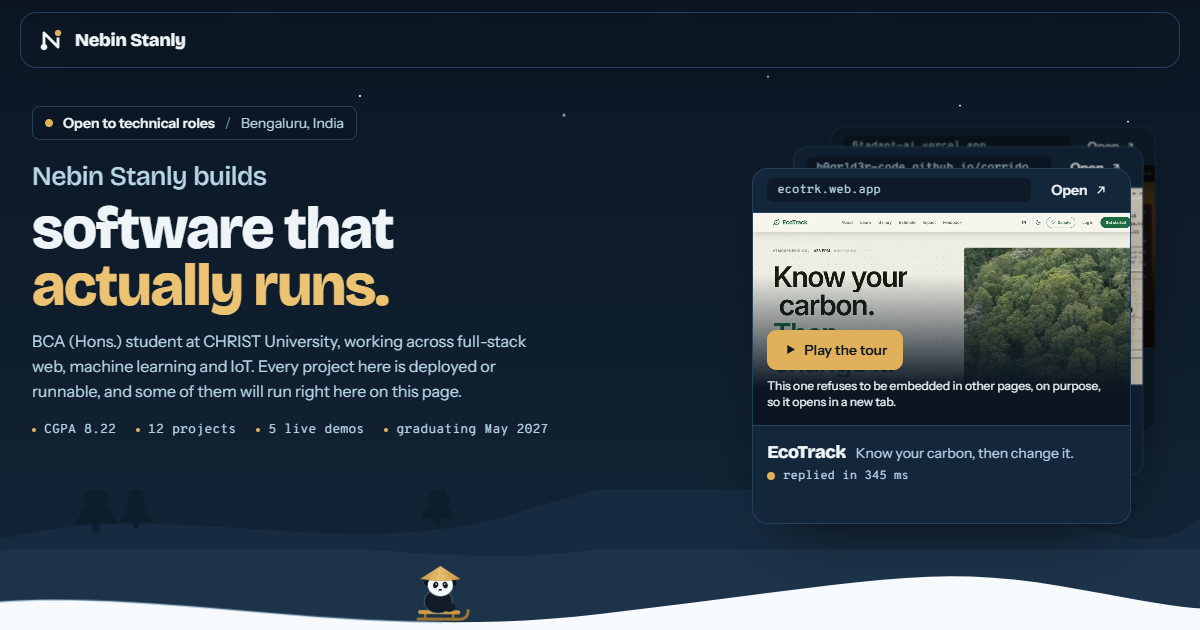
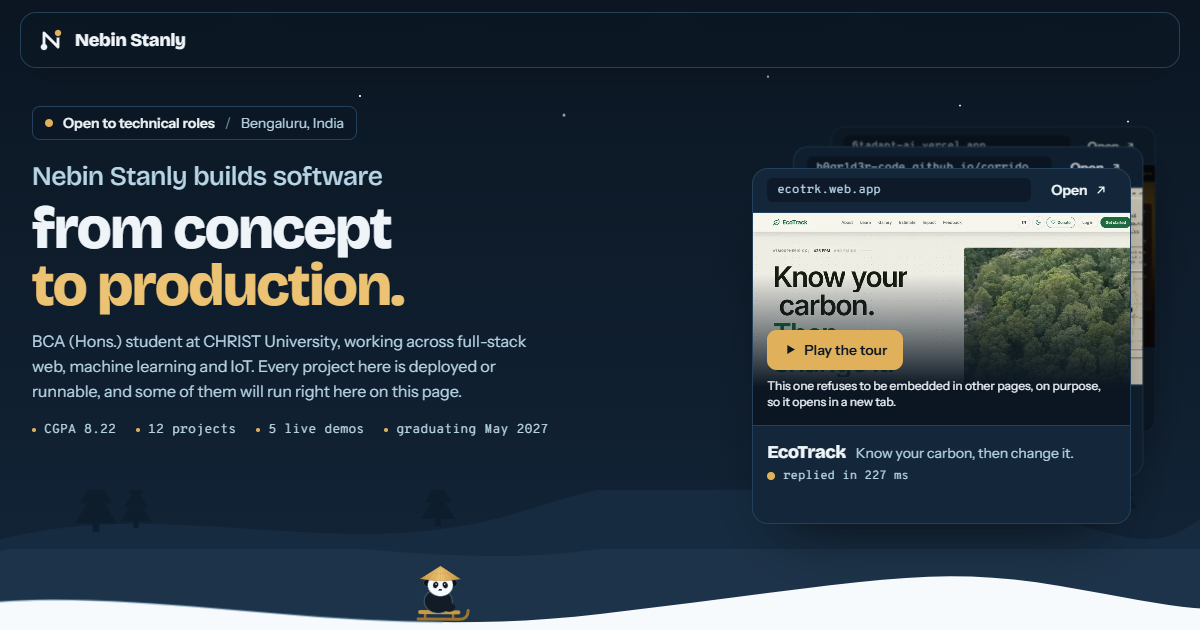
Formal headline, footer panda that reacts, shorter footer line
- Headline is now "Nebin Stanly builds software from concept to
  production.", the phrasing of the résumé summary. The loading screen
  line is plainer to match.
- The footer panda is a button rather than scenery: its eyes follow the
  pointer, it comes up and tips its hat on hover or focus, and pressing
  it sends it under the snow to come up elsewhere along the drift.
- The footer no longer lists the tools the site is built with.

Changed region(s): [[0.0308, 0.3317, 0.3392, 0.5127], [0.2158, 0.2714, 0.3392, 0.3016]]

diff --git a/src/components/Panda.tsx b/src/components/Panda.tsx
@@ -2,7 +2,8 @@
 // same shapes. It works at a laptop in About, sleds the hills and the
 // timeline, and peeks over the footer drift.
 
-import { useEffect, useRef, type CSSProperties } from "react";
+import { useEffect, useRef, useState, type CSSProperties, type RefObject } from "react";
+import { cn } from "@/lib/cn";
 import { usePrefersReducedMotion } from "@/lib/usePrefersReducedMotion";
 
 export function HatGradient({ id }: { id: string }) {
@@ -41,18 +42,20 @@ export function PandaHead({ hatId, blink = false, look = false, snowOnHat = fals
         </g>
       </g>
       <ellipse cx="980" cy="327" rx="7" ry="4.5" fill="#131C26" />
-      <path d="M880 272 Q980 292 1080 272 L980 208 Z" fill={`url(#${hatId})`} />
-      <g fill="none" stroke="#9C7430" strokeWidth="1.4" opacity="0.55">
-        <path d="M980 208 L912 276M980 208 L946 281M980 208 L980 282M980 208 L1014 281M980 208 L1048 276" />
-        <path d="M930 240 Q980 252 1030 240" />
+      <g className="panda-hat">
+        <path d="M880 272 Q980 292 1080 272 L980 208 Z" fill={`url(#${hatId})`} />
+        <g fill="none" stroke="#9C7430" strokeWidth="1.4" opacity="0.55">
+          <path d="M980 208 L912 276M980 208 L946 281M980 208 L980 282M980 208 L1014 281M980 208 L1048 276" />
+          <path d="M930 240 Q980 252 1030 240" />
+        </g>
+        <path d="M880 272 Q980 292 1080 272" fill="none" stroke="#9C7430" strokeWidth="2.2" opacity="0.7" />
+        {snowOnHat && (
+          <path
+            d="M980 205 C 962 215, 950 224, 944 233 C 958 229, 966 236, 980 231 C 994 236, 1002 229, 1016 233 C 1010 224, 998 215, 980 205 Z"
+            fill="#EEF4F8"
+          />
+        )}
       </g>
-      <path d="M880 272 Q980 292 1080 272" fill="none" stroke="#9C7430" strokeWidth="2.2" opacity="0.7" />
-      {snowOnHat && (
-        <path
-          d="M980 205 C 962 215, 950 224, 944 233 C 958 229, 966 236, 980 231 C 994 236, 1002 229, 1016 233 C 1010 224, 998 215, 980 205 Z"
-          fill="#EEF4F8"
-        />
-      )}
     </>
   );
 }
@@ -84,6 +87,35 @@ export function Pine({ x, y, scale = 1 }: { x: number; y: number; scale?: number
       d="M0 0 L-10 17 H-5 L-15 34 H-8 L-19 52 H-3 V60 H3 V52 H19 L8 34 H15 L5 17 H10 Z"
     />
   );
+}
+
+/**
+ * Makes a panda's eyes follow the pointer. `faceAt` is how far down the
+ * element the face sits, from 0 (top) to 1 (bottom).
+ */
+function useLookAt(ref: RefObject<HTMLElement | SVGSVGElement | null>, faceAt: number, enabled: boolean) {
+  useEffect(() => {
+    const el = ref.current;
+    if (!el || !enabled) return;
+    let frame = 0;
+    const onMove = (e: PointerEvent) => {
+      cancelAnimationFrame(frame);
+      frame = requestAnimationFrame(() => {
+        const r = el.getBoundingClientRect();
+        const dx = e.clientX - (r.left + r.width / 2);
+        const dy = e.clientY - (r.top + r.height * faceAt);
+        const dist = Math.hypot(dx, dy) || 1;
+        const reach = Math.min(dist / 240, 1);
+        el.style.setProperty("--look-x", ((dx / dist) * reach * 3.4).toFixed(2));
+        el.style.setProperty("--look-y", ((dy / dist) * reach * 2.6).toFixed(2));
+      });
+    };
+    window.addEventListener("pointermove", onMove, { passive: true });
+    return () => {
+      window.removeEventListener("pointermove", onMove);
+      cancelAnimationFrame(frame);
+    };
+  }, [ref, faceAt, enabled]);
 }
 
 /** One slot in the scroll sequence: see `.act` in globals.css. */
@@ -122,29 +154,8 @@ export function PandaAtWork({ className }: { className?: string }) {
   const ref = useRef<SVGSVGElement>(null);
   const reduced = usePrefersReducedMotion();
 
-  useEffect(() => {
-    const svg = ref.current;
-    if (!svg || reduced) return;
-    let frame = 0;
-    const onMove = (e: PointerEvent) => {
-      cancelAnimationFrame(frame);
-      frame = requestAnimationFrame(() => {
-        const r = svg.getBoundingClientRect();
-        // The face sits about 43% of the way down the drawing.
-        const dx = e.clientX - (r.left + r.width / 2);
-        const dy = e.clientY - (r.top + r.height * 0.43);
-        const dist = Math.hypot(dx, dy) || 1;
-        const reach = Math.min(dist / 240, 1);
-        svg.style.setProperty("--look-x", ((dx / dist) * reach * 3.4).toFixed(2));
-        svg.style.setProperty("--look-y", ((dy / dist) * reach * 2.6).toFixed(2));
-      });
-    };
-    window.addEventListener("pointermove", onMove, { passive: true });
-    return () => {
-      window.removeEventListener("pointermove", onMove);
-      cancelAnimationFrame(frame);
-    };
-  }, [reduced]);
+  // The face sits about 43% of the way down the drawing.
+  useLookAt(ref, 0.43, !reduced);
 
   return (
     <svg
@@ -247,20 +258,59 @@ export function PandaAtWork({ className }: { className?: string }) {
   );
 }
 
-/** The footer scene: the panda comes up over a snow drift, as on the profile banner. */
+/** Where along the drift the panda can come up, as a percentage from the left. */
+const SPOTS = [84, 60, 38, 17];
+
+/**
+ * The footer scene: the panda behind a snow drift, as on the profile banner.
+ * It is not just scenery. Its eyes follow the pointer, it comes up and tips
+ * its hat when the pointer (or keyboard focus) reaches it, and pressing it
+ * sends it under the snow to come up somewhere else along the drift.
+ */
 export function PandaDrift() {
+  const reduced = usePrefersReducedMotion();
+  const ref = useRef<HTMLButtonElement>(null);
+  const [spot, setSpot] = useState(0);
+  const [ducked, setDucked] = useState(false);
+  // The face sits about 63% of the way down the button.
+  useLookAt(ref, 0.63, !reduced);
+
+  const hop = () => {
+    if (ducked) return;
+    setDucked(true);
+    window.setTimeout(
+      () => {
+        setSpot((s) => (s + 1) % SPOTS.length);
+        window.setTimeout(() => setDucked(false), 140);
+      },
+      reduced ? 0 : 360
+    );
+  };
+
   return (
-    <div className="relative h-36 overflow-y-clip sm:h-44" aria-hidden="true">
-      <svg viewBox="872 196 216 172" className="peek-up absolute bottom-[38%] right-[14%] h-[62%]" focusable="false">
-        <defs>
-          <HatGradient id="hat-drift" />
-        </defs>
-        <PandaHead hatId="hat-drift" blink snowOnHat />
-      </svg>
+    <div className="relative h-36 [clip-path:inset(-4rem_0_0_0)] sm:h-44">
+      <button
+        ref={ref}
+        type="button"
+        onClick={hop}
+        aria-label="The panda. Press to send it somewhere else along the drift."
+        className={cn("panda-peek absolute bottom-[34%] h-[62%] -translate-x-1/2 rounded-xl", ducked && "is-ducked")}
+        style={{ left: `${SPOTS[spot]}%` }}
+      >
+        <span className="peek-up block h-full">
+          <svg viewBox="872 196 216 172" className="panda-rise block h-full w-auto overflow-visible" aria-hidden="true" focusable="false">
+            <defs>
+              <HatGradient id="hat-drift" />
+            </defs>
+            <PandaHead hatId="hat-drift" blink look snowOnHat />
+          </svg>
+        </span>
+      </button>
       <svg
         viewBox="0 0 1200 120"
         preserveAspectRatio="none"
-        className="absolute inset-x-0 bottom-0 h-[62%] w-full"
+        className="pointer-events-none absolute inset-x-0 bottom-0 h-[62%] w-full"
+        aria-hidden="true"
         focusable="false"
       >
         <defs>

diff --git a/src/styles/globals.css b/src/styles/globals.css
@@ -762,6 +762,37 @@ html.no-boot #boot {
   stroke-dashoffset: 0.62;
 }
 
+/* The footer panda: comes up and tips its hat under the pointer or keyboard
+   focus, and goes under the snow when pressed (Panda.tsx then moves it). */
+.panda-peek {
+  cursor: pointer;
+}
+.panda-rise {
+  transition: transform 0.45s cubic-bezier(0.3, 1.5, 0.5, 1);
+}
+.panda-hat {
+  transform-box: fill-box;
+  transform-origin: 50% 100%;
+}
+.panda-peek .panda-hat {
+  transition: transform 0.45s cubic-bezier(0.3, 1.7, 0.5, 1) 0.06s;
+}
+.panda-peek:hover .panda-rise,
+.panda-peek:focus-visible .panda-rise {
+  transform: translateY(-12%);
+}
+.panda-peek:hover .panda-hat,
+.panda-peek:focus-visible .panda-hat {
+  transform: translateY(-20%) rotate(-11deg);
+}
+.panda-peek.is-ducked .panda-rise {
+  transform: translateY(125%);
+  transition: transform 0.32s cubic-bezier(0.6, 0, 0.8, 0.3);
+}
+.panda-peek.is-ducked .panda-hat {
+  transform: none;
+}
+
 /* The panda's eyes follow the pointer: Panda.tsx sets --look-x / --look-y. */
 .panda-look {
   transform: translate(calc(var(--look-x, 0) * 1px), calc(var(--look-y, 0) * 1px));

diff --git a/src/data/resume.ts b/src/data/resume.ts
@@ -34,9 +34,9 @@ export const nav = [
 export const hero = {
   status: "Open to technical roles",
   where: "Bengaluru, India",
-  lead: "Nebin Stanly builds",
-  statement: "software that",
-  emphasis: "actually runs.",
+  lead: "Nebin Stanly builds software",
+  statement: "from concept",
+  emphasis: "to production.",
   intro:
     "BCA (Hons.) student at CHRIST University, working across full-stack web, machine learning and IoT. Every project here is deployed or runnable, and some of them will run right here on this page.",
 } as const;

diff --git a/src/components/Loader.tsx b/src/components/Loader.tsx
@@ -115,7 +115,7 @@ export function Loader({ onLift }: { onLift: () => void }) {
           <Mark className="size-8" />
           {profile.name}
         </p>
-        <p className="mt-2 text-ink-2">Checking that everything I say is running actually is.</p>
+        <p className="mt-2 text-ink-2">Checking each live project from your browser.</p>
 
         <ol className="mt-6 flex flex-col gap-2 font-mono text-[0.8125rem] sm:text-sm">
           {lines.map((line) => (

diff --git a/src/components/Contact.tsx b/src/components/Contact.tsx
@@ -55,7 +55,7 @@ export function Footer() {
     <footer className="bg-(--drift-bottom) text-[#0b1622]">
       <div className="mx-auto flex max-w-[76rem] flex-wrap items-center justify-between gap-x-8 gap-y-2 px-4 pb-8 pt-2 text-sm sm:px-8">
         <p>
-          © {new Date().getFullYear()} {profile.name}. Built with React, Vite and Tailwind.
+          © {new Date().getFullYear()} {profile.name}
         </p>
         <a
           href={profile.repoUrl}
